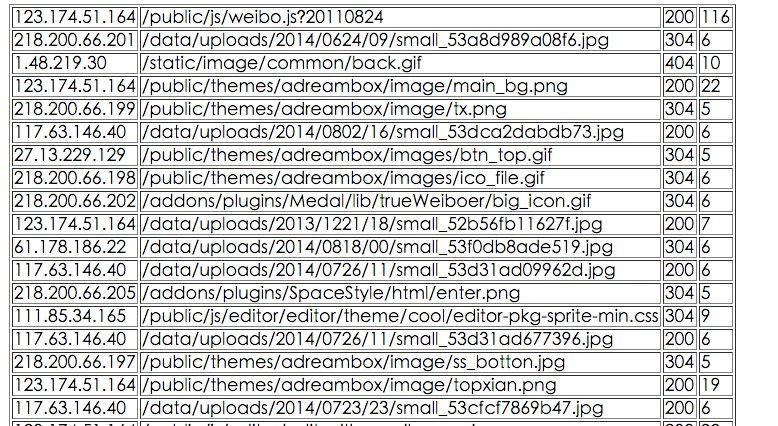
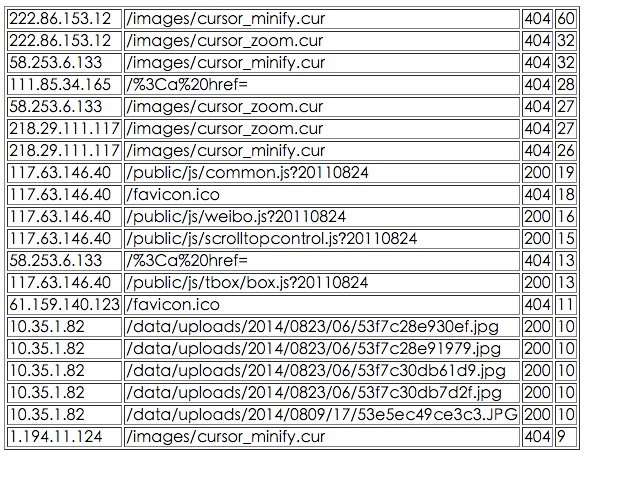
bug fix
bugfix

diff --git a/log_visual/ppt/log.md b/log_visual/ppt/log.md
@@ -1,7 +1,7 @@
 title: 日志可视化
 speaker: Woniuppp
 url: https://github.com/ksky521/nodePPT
-transition: glue
+transition: slide
 files: /js/demo.js,/css/demo.css,/js/zoom.js
 theme: colors
 
@@ -10,16 +10,27 @@ theme: colors
 [slide]
 
 # 日志可视化
-<small>演讲者：woniuppp</small>
-
+## 演讲者：woniuppp
+<small>基于python，前端基于echarts</small>
 
 [slide]
 ## 原材料
 ----
-* 一个标准的access_log日志 大概6W行
+* 一个标准的access_log日志 大概2W行
 * 老板想要这个日志的分析结果，每个url,ip,status分别访问多少次，把前几名统计出来看看
 * 分析出统计数据 展现结果
 
+[slide]
+## 很普通的日志，大概长这样
+
+```
+61.159.140.123 - - [23/Aug/2014:00:01:42 +0800] "GET /favicon.ico HTTP/1.1" 404 \ "-" "Mozilla/5.0 (Windows NT 5.1) AppleWebKit/537.36 (KHTML, like Gecko) Chrome/29.0.1547.66 Safari/537.36 LBBROWSER" "-"
+61.159.140.123 - - [23/Aug/2014:00:01:42 +0800] "GET /favicon.ico HTTP/1.1" 404 \ "-" "Mozilla/5.0 (Windows NT 5.1) AppleWebKit/537.36 (KHTML, like Gecko) Chrome/29.0.1547.66 Safari/537.36 LBBROWSER" "-"
+61.159.140.123 - - [23/Aug/2014:00:01:42 +0800] "GET /favicon.ico HTTP/1.1" 404 \ "-" "Mozilla/5.0 (Windows NT 5.1) AppleWebKit/537.36 (KHTML, like Gecko) Chrome/29.0.1547.66 Safari/537.36 LBBROWSER" "-"
+61.159.140.123 - - [23/Aug/2014:00:01:42 +0800] "GET /favicon.ico HTTP/1.1" 404 \ "-" "Mozilla/5.0 (Windows NT 5.1) AppleWebKit/537.36 (KHTML, like Gecko) Chrome/29.0.1547.66 Safari/537.36 LBBROWSER" "-"
+66.249.64.5 - - [23/Aug/2014:00:02:16 +0800] "GET /data/uploads/2013/0519/09/small_51982ba18e012.jpg HTTP/1.1" 200 \ "-" "Googlebot-Image/1.0" "-"
+66.249.64.10 - - [23/Aug/2014:00:02:54 +0800] "GET /data/uploads/2013/0319/08/middle_5147b116e93b4.jpg HTTP/1.1" 200 \ "-" "Googlebot-Image/1.0" "-"
+```
 
 [slide]
 
@@ -31,11 +42,12 @@ theme: colors
 * 打印前10
 
 [slide]
-## python代码
+## talk is cheap, show me the <del>money</del> code!
+
 
 ```python
 
-f = open('../www_access_20140823.log')
+f = open('www_access_20140823.log')
 res = {}
 for l in f:
     arr = l.split(' ')
@@ -52,23 +64,23 @@ for k in sorted(res_list,key=lambda x:x[3],reverse=True)[:10]:
 [slide]
 ## 处理结果
 ```
-('118.112.143.148', '/images/cursor_zoom.cur', '404', 674)
-('118.112.143.148', '/images/cursor_minify.cur', '404', 662)
-('221.12.76.53', '/images/cursor_zoom.cur', '404', 220)
-('221.12.76.53', '/images/cursor_minify.cur', '404', 218)
-('123.174.51.164', '/public/js/weibo.js?20110824', '200', 116)
-('123.174.51.164', '/public/js/tbox/box.css?20110820', '200', 116)
-('123.174.51.164', '/public/themes/adreambox/main.css?20110820', '200', 116)
-('123.174.51.164', '/public/themes/adreambox/link.css', '200', 116)
-('123.174.51.164', '/public/js/jquery.jgrow.min.js', '200', 116)
-('123.174.51.164', '/public/themes/adreambox/images/btn_top.gif', '200', 116)
+('222.86.153.12', '/images/cursor_minify.cur', '404', 60)
+('222.86.153.12', '/images/cursor_zoom.cur', '404', 32)
+('58.253.6.133', '/images/cursor_minify.cur', '404', 32)
+('111.85.34.165', '/%3Ca%20href=', '404', 28)
+('58.253.6.133', '/images/cursor_zoom.cur', '404', 27)
+('218.29.111.117', '/images/cursor_zoom.cur', '404', 27)
+('218.29.111.117', '/images/cursor_minify.cur', '404', 26)
+('117.63.146.40', '/public/js/common.js?20110824', '200', 19)
+('117.63.146.40', '/favicon.ico', '404', 18)
+('117.63.146.40', '/public/js/weibo.js?20110824', '200', 16)
 ```
 
 [slide]
 ## 任务完成
 
 * 下一步粘到邮件里，或者生成一个csv文件发出去
-* 然而这是一个看脸的社会
+* 然而这是一个看脸的社会,运维也逃脱不了这个魔咒
 
 [slide]
 
@@ -77,6 +89,8 @@ for k in sorted(res_list,key=lambda x:x[3],reverse=True)[:10]:
 生成list之后，拼接sql，存入数据库
 
 [slide]
+## talk is cheap, show me the <del>money</del> code!
+
 ```python
 import MySQLdb as mysql
 con = mysql.connect(user='root',\
@@ -96,25 +110,23 @@ for s in res_list:
         pass
 ```
 
+
 [slide]
 ## 前端展现
+### talk is cheap, show me the <del>money</del> code!
 
 ```
 from flask import Flask,request,render_template
 app = Flask(__name__)
-
 import MySQLdb as mysql
-con = mysql.connect(user='root',\
-                    passwd='',\
-                    db='log',\
-                    host='localhost')
-con.autocommit(True)
+con = mysql.connect(user='xx',\
+                    passwd='xx',\
+                    db='xx')
 cur = con.cursor()
-
 @app.route('/')
 def index():
     table = '<table border="1">'
-    cur.execute('select * from log')
+    cur.execute('select * from log order by value desc limit 20; ')
     for c in cur.fetchall():
         table += '<tr><td>%s</td><td>%s</td><td>%s</td><td>%s</td></tr>'%c
     table +='</table>'
@@ -125,9 +137,17 @@ if __name__ == '__main__':
 ```
 
 [slide]
-
+## 给老板一个url即可，老板想看随时能看
 ![表格](/00.png)
 
+[slide]
+## 但是老板表示有点丑
+
+![老板](http://7xjoq9.com1.z0.glb.clouddn.com/chatuchatu1.png)
+
+[slide]
+
+![表格](/datatable.png)
 
 [slide]
 ## 前端展现上做一些优化
@@ -138,62 +158,39 @@ if __name__ == '__main__':
 * 控制每页显示数量
 
 [slide]
-
-![表格](/01.png)
-
-[slide]
-
-![表格](/datatable.png)
+### 不动戳大
+![表格](http://7xjoq9.com1.z0.glb.clouddn.com/log1.gif)
 
 [slide]
 
-## python代码
+## 我们的console页面，提供几个汇总信息，那就更好啦
+### 比如根据http的status来个汇总
 
-```
-
-@app.route('/table')
-def table():
-    table = '<table border="1">'
-    c = db.execute('select * from log where value>5')
-    for l in c.fetchall():
-        table += '<tr><td>%s</td><td>%s</td><td>%s</td><td>%s</td></tr>'%l
-    table +='</table>'
-    return table
-
-```
-
+![老板](http://7xjoq9.com1.z0.glb.clouddn.com/chatuchatu1.png)
 
 [slide]
 
-```
-{% if data %}
-<table class="table table-striped table-bordered table-hover" id="dataTables-example">
-    <thead>
-        <tr>
-            <th>IP</th>
-            ...
-        </tr>
-    </thead>
-    <tbody>
-        {% for d in data %}
-        <tr>
-            <td>{{d[0]}}</td>
-            <td class='wd100'>{{d[1]}}</td>
-            ...
-        </tr>
-        {% endfor %}
-    </tbody>
-</table>
-{% endif %}
+![](http://7xjoq9.com1.z0.glb.clouddn.com/chatutiaozhan.png)
 
-```
+
 
 [slide]
+## 难不倒我
+### 一句sql搞定
 
-```
-$('#dataTables-example').DataTable({
-    responsive: true,
-});
+```sql
+select status,sum(value) from log group by status
++--------+------------+
+| status | sum(value) |
++--------+------------+
+|    200 |      15529 |
+|    206 |          6 |
+|    301 |          2 |
+|    304 |       3549 |
+|    403 |          1 |
+|    404 |        847 |
++--------+------------+
+6 rows in set (0.02 sec)
 ```
 
 [slide]
@@ -205,13 +202,6 @@ $('#dataTables-example').DataTable({
 
 [slide]
 
-## 并不仅限于此
-### 拖拽重计算：304和404一起的比例肿么办
-
-![](/chart02.png)
-
-[slide]
-
 ## 其他功能
 
 * 图例开关
@@ -219,20 +209,122 @@ $('#dataTables-example').DataTable({
 * 数据视图
 * 直接导出图片
 
+[slide]
+
+## 可视化并不仅限于此
+<!-- ### 拖拽重计算：304和404一起的比例肿么办 -->
+
+![](http://7xjoq9.com1.z0.glb.clouddn.com/log2.gif)
+
+
 
 [slide]
 
-## 访问图
+## 上面只是举得小栗子
+### 如果你对时间更感兴趣，我们的log里也是有时间信息的,可以像下面这样
+### 统计量，时间轴拖动，保存图片，etc
+
+![](http://7xjoq9.com1.z0.glb.clouddn.com/log3.gif)
 
 
 [slide]
 
-## 区域图
-### 根据ip更友好和直观地显示数据
+## 更进一步
+### 如何让日志数据更加一目了然，让老板觉得你很有逼格呢
+![](http://7xjoq9.com1.z0.glb.clouddn.com/chatu1.png)
 
-![](/map01.png)
+[slide]
+
+### IP都是有地址位置的，定位每个ip的位置，画个地图出来汇总
+
+![](http://7xjoq9.com1.z0.glb.clouddn.com/logkaixin.png)
+
+[slide]
+## 地图是需要经纬度的，用第三方的ip库转换一下
+### http://developer.baidu.com/map/index.php?title=webapi/ip-api
+
+![](http://7xjoq9.com1.z0.glb.clouddn.com/loglog01.png)
+
+[slide]
+## talk is cheap, show me the <del>money</del> code!
+
+```python
+import urllib2
+import json
+key = 'q5mTrTGzCSVq5QmGpI9y18Bo'
+ipurl = 'http://api.map.baidu.com/location/ip?ak='+key+'&coor=bd09ll&ip='
+sqlarr = []
+def getGeo(ip):
+    try:
+        u = urllib2.urlopen(ipurl+ip)
+        page = json.load(u)
+        if 'content' in page:
+            point = page['content'].get('point')
+            print 'ip %s has geoX %s and geoY %s' % (ip,point['x'],point['y']) 
+    except:
+        print 'error'
+getGeo('202.198.16.3')
+# ip 202.198.16.3 has geoX 125.31364243 and geoY 43.89833761
+```
+
+[slide]
+## 就想玩网游时候，坐标可以定位一个人，经纬度可以再地图上定位一个点，画图展现
+
+![](http://7xjoq9.com1.z0.glb.clouddn.com/log4.gif)
+
+[slide]
+## 刚才那个图仅关注区域，进阶一下，还要关注访问量
+### 可以根据value筛选
+
+![](http://7xjoq9.com1.z0.glb.clouddn.com/log5.gif)
+
+[slide]
+## 进阶:多台机器的日志
+
+* 获取每个机器的hostname和ip，和日志数据一起存在数据库里
+* 一个表存日志，带上一个机器的id
+* 机器的id=>ip和经纬度
+* 最终统计访问量
+
+[slide]
+
+![](http://7xjoq9.com1.z0.glb.clouddn.com/log6.gif)
+
+[slide]
+## 大家具体需要哪个，可以继续扩展,给大家展现几个假数据的demo
+### 高逼格饼图展示状态汇总（假数据，可以替换为http_status）
+![](http://7xjoq9.com1.z0.glb.clouddn.com/log90.gif)
+
+[slide]
+## 人员权限树(假数据,可以作为运维人员权限展示)
+![](http://7xjoq9.com1.z0.glb.clouddn.com/log91.gif)
+
+[slide]
+## 流量图(假数据，可以作为机房之间，或者网卡的流量)
+![](http://7xjoq9.com1.z0.glb.clouddn.com/log92.gif)
+
+[slide]
+## 日志统计汇总（假数据，可以用来展示年日志数据汇总）
+
+![](http://7xjoq9.com1.z0.glb.clouddn.com/log93.gif)
+
+[slide]
+## 区域数据汇总饼图展示（假数据，可选择省份，生成饼图）
+![](http://7xjoq9.com1.z0.glb.clouddn.com/log94.gif)
+
+[slide]
+
+## 3D展示机房（网上盗图，后续会做一个类似的开源）
+### json生成，实时查看机器状态，点击时间
+
+![](http://7xjoq9.com1.z0.glb.clouddn.com/chatu74183cdd15be4002cc193d783b5911a7.png)
 
 
+[slide]
+
+# 谢谢！
+
+![](http://7xjoq9.com1.z0.glb.clouddn.com/erweima.jpg)
 
 
 
